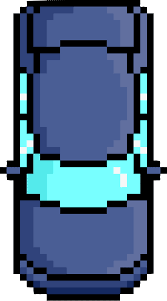
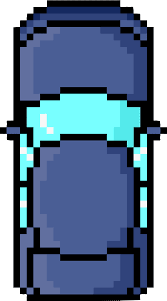
ajout de tous les sprite pour le placement

diff --git a/elements.py b/elements.py
@@ -65,17 +65,17 @@ class Iron(Resource):
 
 class Animal(Element):
 
-    def __init__(self, name, life_max, damage, image):
+    def __init__(self, name, life_max, damage, image, vx = random.randint(-5, 5), vy = random.randint(-3, 3)):
         super().__init__(name ,image)
         self.__life_max=life_max
         self.__age=0
         self.__gender=random.randint(0, 1)
         self.__bar_life=[life_max,life_max]
         self.__damage = damage
-        self.vx = random.randint(-5, 5)
-        self.vy = random.randint(-5, 5)
+        self.vx = vx
+        self.vy = vy
         while self.vy == self.vx:
-            self.vy = random.randint(-5, 5)
+            self.vy = random.randint(-3, 3)
 
 
     ############# age/genre #############
@@ -139,20 +139,14 @@ class Animal(Element):
             if life<value:
                 self.__bar_life[0]=0
             else:
-                self.__bar_life[0]=life-value
-
-
-    ########### mouvement ############            
-    def movement():
-        pass
-    
+                self.__bar_life[0]=life-value    
 
 
 class Cow(Animal):
     def __init__(self, name="Cow", life_max=10, damage=0, image=pygame.image.load("image/cow.png")):
         super().__init__(name, life_max, damage, image)
         self.type="peacefull"
-        self.image=pygame.transform.scale(image, (image.get_width()*0.55, image.get_height()*0.55))
+        self.image=pygame.transform.scale(image, (image.get_width()*0.5, image.get_height()*0.5))
 
 class Pig(Animal):
     def __init__(self, name="Pig", life_max=8, damage=0, image = pygame.image.load("image/pig.png")):
@@ -164,61 +158,72 @@ class Sheep(Animal):
     def __init__(self, name="Sheep", life_max=8, damage=0, image = pygame.image.load("image/sheep.png")):
         super().__init__(name, life_max, damage, image)
         self.type="peacefull"
-        self.image=pygame.transform.scale(image, (image.get_width()*1, image.get_height()*1))
+        self.image=pygame.transform.scale(image, (image.get_width()*0.9, image.get_height()*0.9))
 
 class Rabbit(Animal):
     def __init__(self, name="Bunny", life_max=1, damage=0, image = pygame.image.load("image/rabbit.png")):
         super().__init__(name, life_max, damage, image)
         self.type="peacefull"
-        self.image=pygame.transform.scale(image, (image.get_width()*0.7, image.get_height()*0.7))
+        self.image=pygame.transform.scale(image, (image.get_width()*0.6, image.get_height()*0.6))
 
 class Fish(Animal):
-    __poisson=('Basile','Emile')
-    def __init__(self, name="Fish", life_max=1, damage=0, image = pygame.image.load(f"image/fish{random.choice(__poisson)}.png")):
+    def __init__(self, name="Fish", life_max=1, damage=0, image = pygame.image.load(f"image/fishBasile.png")):
         super().__init__(name, life_max, damage, image)
         self.type="peacefull"
-        self.__image = pygame.transform.scale(image, (image.get_width()*0.0003, image.get_height()*0.0003))
+        self.color=('Basile','Emile')
+        self.color = random.choice(self.color)
+        self.image = pygame.image.load(f"image/fish{self.color}.png")
+        self.image = pygame.transform.scale(image, (image.get_width()*0.4, image.get_height()*0.4))
 
 class Bear(Animal):
     def __init__(self, name="Bear", life_max=30, damage=5, image = pygame.image.load("image/bear.png")):
         super().__init__(name, life_max, damage, image)
-        self.type="savage"
-        self.__image = pygame.transform.scale(image, (image.get_width()*2, image.get_height()*2))
+        self.type="savaged"
+        self.image = pygame.transform.scale(image, (image.get_width()*0.7, image.get_height()*0.7))
 
 class Wolf(Animal):
     def __init__(self, name="Wolf", life_max=15, damage=3, image = pygame.image.load("image/wolf.png")):
         super().__init__(name, life_max, damage, image)
-        self.type="savage"
-        self.__image = pygame.transform.scale(image, (image.get_width()*2, image.get_height()*2))
+        self.type="savaged"
+        self.image = pygame.transform.scale(image, (image.get_width()*0.6, image.get_height()*0.6))
 
 class Snake(Animal):
     def __init__(self, name="Snake", life_max=2, damage=1, image = pygame.image.load("image/snake.png")):
         super().__init__(name, life_max, damage, image)
-        self.type="savage"
-        self.__image = pygame.transform.scale(image, (image.get_width()*2, image.get_height()*2))
+        self.type="savaged"
+        self.image = pygame.transform.scale(image, (image.get_width()*0.5, image.get_height()*0.5))
 
     def poisoned():
         pass
 
-class Car(Animal):
-    __voiture=('Blue','Red')
-    def __init__(self, name="Car", life_max=100, damage=50, image = pygame.image.load(f"image/car{__voiture[random.randint(0, 1)]}.png")):
-        super().__init__(name, life_max, damage, image)
-        self.type="car"
-        self.__image = pygame.transform.scale(image, (image.get_width()*0.02, image.get_height()*0.02))
-
-
 class Falcon(Animal):
     def __init__(self, name="Falcon", life_max=2, damage=2, image = pygame.image.load("image/falcon.png")):
         super().__init__(name, life_max, damage, image)
-        self.type="savage"
-        self.__image = pygame.transform.scale(image, (image.get_width()*2, image.get_height()*2))
+        self.type="savaged"
+        self.image = pygame.transform.scale(image, (image.get_width()*0.8, image.get_height()*0.8))
+        
+
+class Car(Animal):
+    def __init__(self, name="Car", life_max=100, damage=50, image = pygame.image.load(f"image/carBlue.png"), vx=0):
+        super().__init__(name, life_max, damage, image, vx)
+        self.type = "car"
+        self.color = ('Blue', 'Red')
+        self.color = random.choice(self.color)
+        if self.color == 'Red':
+            self.vy = 5
+        else :
+            self.vy = -5
+        self.image = pygame.image.load(f"image/car{self.color}.png")
+        self.image = pygame.transform.scale(self.image, (self.image.get_width() * 0.4, self.image.get_height() * 0.4))
+
+
+
 
 class Human(Animal):
     def __init__(self, name="Gru", life_max=10, damage=2, image = pygame.image.load("image/gru.png")):
         super().__init__(name, life_max, damage, image)
-        self.type="humanity"
-        self.__image = pygame.transform.scale(image, (image.get_width()*2, image.get_height()*2))
+        self.type="human"
+        self.image = pygame.transform.scale(image, (image.get_width() * 0.3, image.get_height() * 0.3))
         self.__inventory = []
         self.arms=0
         self.tools=0

diff --git a/terrain.py b/terrain.py
@@ -35,8 +35,8 @@ class Terrain:
         return None
     
     def get_random_place(self,zone):
-        x= random.randint(0,WIDTH)
-        y=random.randint(0,HEIGHT)
+        x= random.randint(zone[0][0],zone[0][1])
+        y=random.randint(zone[1][0],zone[1][1])
         return x,y                  
 
     
@@ -57,13 +57,13 @@ class Terrain:
                 elif element.type == "savaged":
                     for i in range(ELEMENTS_COUNT[key]):
                         savaged_list.add(element)
-                elif element.type == "car":
+                elif type(element) == Car:
                     for i in range(ELEMENTS_COUNT[key]):
                         car_list.add(element)
                 elif element.type == "resource":
                     for i in range(ELEMENTS_COUNT[key]):
                         resource_list.add(element)
-                elif element.type == "human":
+                elif type(element) == Human:
                     for i in range(ELEMENTS_COUNT[key]):
                         human_list.add(element)
 
@@ -73,33 +73,73 @@ class Terrain:
     def place_elements(self, elements_list):
 
         for sprite in elements_list:
-            sprite.rect.x,sprite.rect.y = self.get_random_place([0,500])
-            print(sprite.rect.x,sprite.rect.y)
+            if type(sprite) == Car:
+                if sprite.color == 'Red':
+                    sprite.rect.x,sprite.rect.y =(815, 0)
+                else :
+                    sprite.rect.x,sprite.rect.y =(750, 600)
+
+            elif type(sprite)==Bear:
+                sprite.rect.x,sprite.rect.y = self.get_random_place([[0,200],[0,200]])
+            else :
+                sprite.rect.x,sprite.rect.y = self.get_random_place([[200,WIDTH-100],[200,HEIGHT-100]])
+
+            #print(sprite.rect.x,sprite.rect.y)
             x = sprite.rect.x // self.area_size
             y = sprite.rect.y // self.area_size
             self.regions[(x, y)].append(sprite)
 
-    def update(self):
-        self.rect.x += self.vx
-        self.rect.y += self.vy
-        if self.rect.left < 0 or self.rect.right > self.__screen.get_width():
-            self.vx = -self.vx
-        if self.rect.top < 0 or self.rect.bottom > self.__screen.get_height():
-            self.vy = -self.vy
-    
-    def peacefull_area(self):
-        pass
-    
-    def dangerous_area(self):
-        pass
+    def update(self, sprite):        
+        sprite.rect.x += sprite.vx
+        sprite.rect.y += sprite.vy
+        
+        if type(sprite)==Bear:
+            if sprite.rect.left < 0 or sprite.rect.right > 300:
+                sprite.vx = -sprite.vx
+            if sprite.rect.top < 0 or sprite.rect.bottom > 300:
+                sprite.vy = -sprite.vy
+        
+        elif type(sprite) == Car:
+            if sprite.rect.top < 0 :
+                sprite.rect.y = self.__screen.get_height()-sprite.image.get_height()
+            elif sprite.rect.bottom > self.__screen.get_height()+sprite.image.get_height():
+                sprite.rect.y = 0
+
+
+        if sprite.rect.left < 0 or sprite.rect.right > self.__screen.get_width():
+            sprite.vx = -sprite.vx
+        if sprite.rect.top < 0 or sprite.rect.bottom > self.__screen.get_height():
+            sprite.vy = -sprite.vy
+
+
+    def detect_collisions(self):
+        all_sprites = pygame.sprite.Group(self.peacefull_list, self.savaged_list, self.car_list, self.human_list, self.resource_list)
+
+        for sprite1 in all_sprites:
+            for sprite2 in all_sprites:
+                if sprite1 != sprite2 and sprite1.rect.colliderect(sprite2.rect):
+                    pass
+
+
+
+
+
+
 
     def affichage(self):
         clock = pygame.time.Clock()
         self.__screen.blit(self.__background, (0,0))
 
         liste_elements = self.create_groups()
-        liste_animals = liste_elements[0]
-        self.place_elements(liste_animals)
+        liste_peacefull = liste_elements[0]
+        liste_savaged = liste_elements[1]
+        liste_car = liste_elements[2]
+        human= liste_elements[3]
+
+        self.place_elements(liste_peacefull)
+        self.place_elements(liste_savaged)
+        self.place_elements(liste_car)
+        self.place_elements(human)
 
         while True:
             for event in pygame.event.get():
@@ -109,26 +149,15 @@ class Terrain:
                     
             self.__screen.blit(self.__background, (0,0))
 
-            # Tester les collisions pour les sprites dans les régions adjacentes
-            for sprite in liste_animals:
-                sprite.update()
+            all_sprites = pygame.sprite.Group(liste_peacefull, liste_savaged, liste_car, human)
+            # affichage des sprites
+            for sprite in all_sprites:
+                self.update(sprite)
                 self.__screen.blit(sprite.image, (sprite.rect.x, sprite.rect.y))
+                
+            #self.detect_collisions()
+                    
             
-                x = sprite.rect.x // self.area_size
-                y = sprite.rect.y // self.area_size
-                for dx in [-1, 0, 1]:
-                    for dy in [-1, 0, 1]:
-                        if (x+dx, y+dy) in self.regions:
-                            for other_sprite in self.regions[(x+dx, y+dy)]:
-                                if sprite != other_sprite and sprite.rect.colliderect(other_sprite.rect):
-                                    groupe_self = sprite.groups()
-                                    #print("Collision",groupe_self,"->",other_sprite.groups())
-
-                                    liste_animals.update()
-
             
-
-            
-
             pygame.display.flip()
             clock.tick(60)

diff --git a/config.py b/config.py
@@ -10,13 +10,13 @@ MUSIC_STATE=True
 
 DEFAULT_COUNT = {
 
-    "Cow" : 5,
-    "Sheep" : 10,
-    "Rabbit" : 30,
-    "Pig" : 20,
-    "Fish" : 20,
+    "Cow" : 2,
+    "Sheep" : 3,
+    "Rabbit" : 5,
+    "Pig" : 2,
+    "Fish" : 6,
 
-    "Snake" : 10,
+    "Snake" : 6,
     "Wolf" : 2,
     "Falcon" : 5,
     "Bear" : 1,
